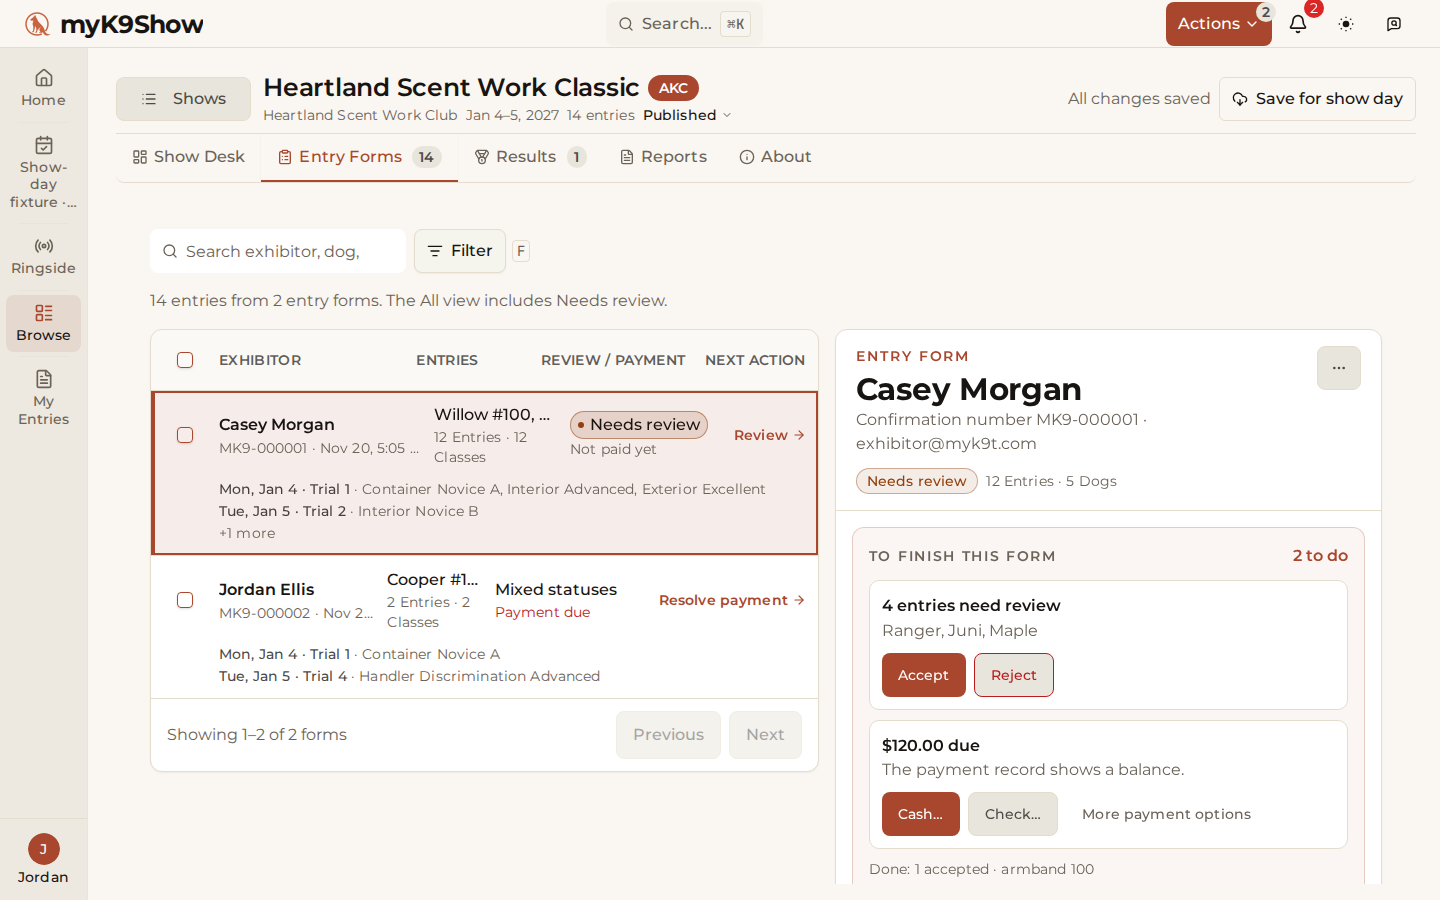
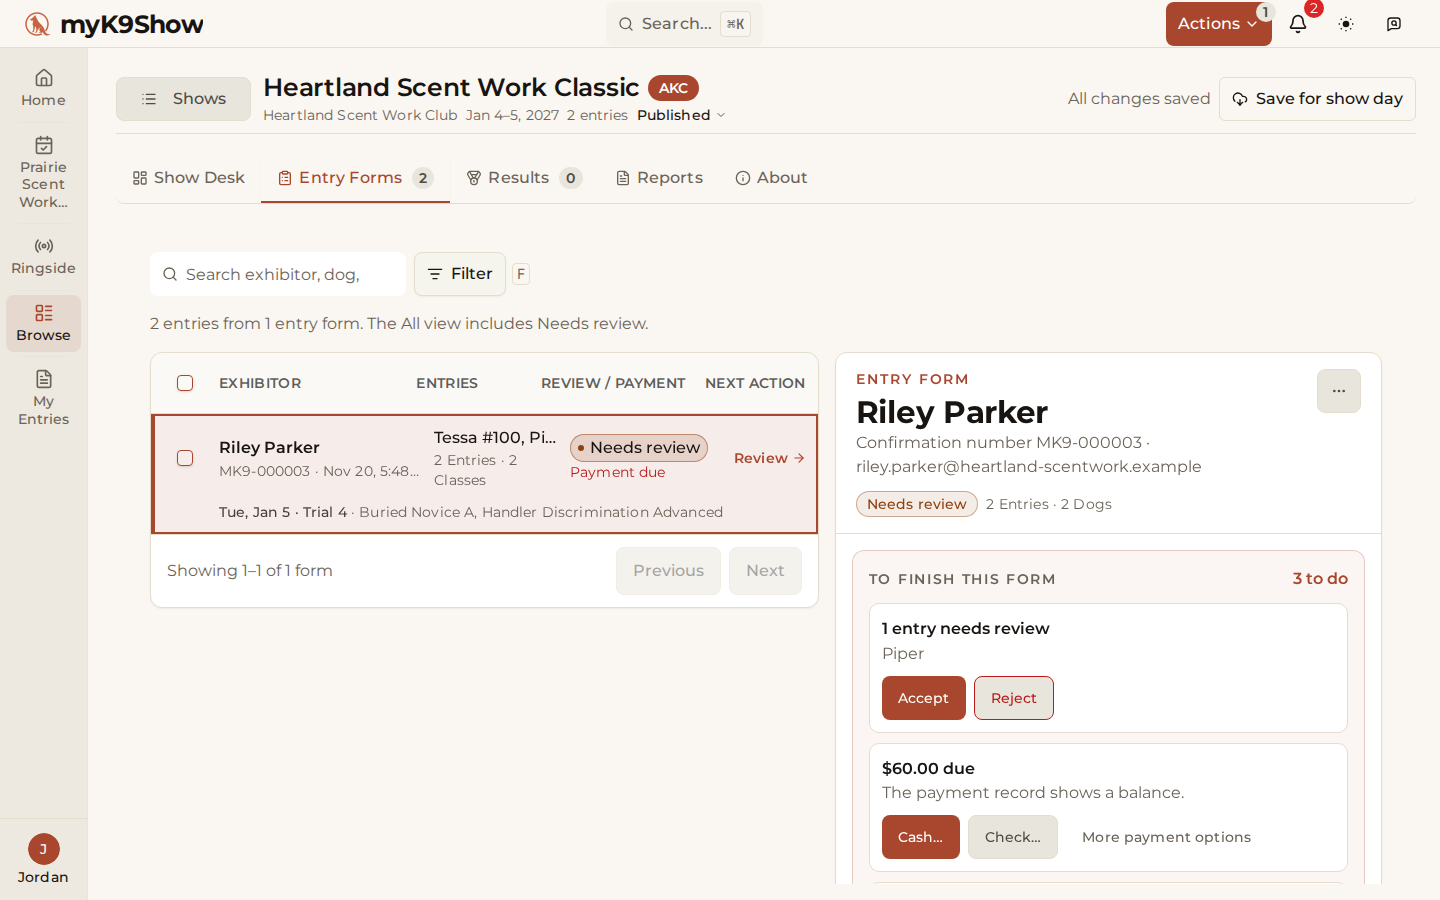
wip: MYK9-2296 round 1 captures, scene alts, tests

diff --git a/apps/myk9show/src/components/landing/lifecycle/scenes/entriesScene.ts b/apps/myk9show/src/components/landing/lifecycle/scenes/entriesScene.ts
@@ -31,13 +31,14 @@ type PhoneShot = keyof typeof PHONE_SHOTS;
 type DeskShot = keyof typeof DESK_SHOTS;
 
 const PHONE_ALT: Record<PhoneShot, string> = {
-  dogs: 'The entry wizard on the exhibitor’s phone, Select Dogs to Enter, with Maple chosen',
+  dogs: 'The entry wizard on the exhibitor’s phone, Select Dogs to Enter, with Piper chosen',
   classes:
     'The wizard’s Select Classes step, with Handler Discrimination Advanced marked Full and a reason that the class is full',
   payment:
     'The wizard’s Payment step with the credit or debit card chosen and a button that reads Pay with the amount on it',
-  pending: 'My Entries on the phone: Maple’s card with a Pending review label',
-  accepted: 'My Entries on the phone: Maple’s card, now labelled Accepted',
+  pending:
+    'My Entries on the phone: Piper’s card with a Pending review label and the note that the secretary is reviewing it',
+  accepted: 'My Entries on the phone: Piper’s card, now labelled Accepted',
 };
 const DESK_ALT: Record<DeskShot, string> = {
   before:
@@ -45,8 +46,7 @@ const DESK_ALT: Record<DeskShot, string> = {
   list: 'The Entry Forms list with the exhibitor’s form marked Needs review, with Not paid yet beside it',
   review:
     'The open entry form, under To finish this form: the entries that need review, with Accept and Reject buttons',
-  accepted:
-    'The open entry form after Accept: Maple’s entry in Container Advanced now reads Accepted',
+  accepted: 'The open entry form after Accept: Piper’s entry in Buried Novice A now reads Accepted',
 };
 
 const phoneShot = (name: PhoneShot): SceneShot => ({

diff --git a/apps/myk9show/src/components/landing/lifecycle/__tests__/entriesScene.test.tsx b/apps/myk9show/src/components/landing/lifecycle/__tests__/entriesScene.test.tsx
@@ -152,6 +152,19 @@ describe('the Entries open scene', () => {
     expect(lineThree.phone!.camera).toEqual(lineTwo.phone!.camera);
   });
 
+  it('keeps the Communication section, which says no decision email has gone yet, out of frame on the Accepted capture', () => {
+    // Line 5 says the exhibitor gets an email; that section reads "No decision email sent yet".
+    const view = frames.find(f => f.desk!.shot === 'accepted')!.desk!;
+    const { entry, communication } = regions.desk.shots.accepted.regions;
+    expect(inside(entry, view.camera)).toBe(true);
+    const overlaps =
+      communication.y < view.camera.y + view.camera.h &&
+      communication.y + communication.h > view.camera.y &&
+      communication.x < view.camera.x + view.camera.w &&
+      communication.x + communication.w > view.camera.x;
+    expect(overlaps).toBe(false);
+  });
+
   it('uses every capture, and each file is on disk at the size the data states', () => {
     const used = new Set(frames.flatMap(f => [`desk:${f.desk!.shot}`, `phone:${f.phone!.shot}`]));
     expect(used).toEqual(

diff --git a/docs/plan-landing-animated-timeline.md b/docs/plan-landing-animated-timeline.md
@@ -99,7 +99,7 @@ Changed from the 2026-11-12 wording:
 - The wizard is no longer "four steps" for every payer. Card goes straight to Stripe from the Payment step ("Pay $X.XX", MYK9-1964), so only check and cash reach the Receipt step. The exhibitor's wizard still has no Handlers step (the secretary's does); a handler question appears inline only when one owner enters two dogs in one class (MYK9-2021).
 - "Full: join waitlist" cannot be quoted: `BANNED_COPY` forbids the word. Line 1 says a full class "says so" and names the "waiting list" (2026-11-19, MYK9-2296; a full class with no waiting list reads "Full" and cannot be entered, one that allows a waiting list reads "Full: join waitlist" and can).
 - **Line 2 reworded 2026-11-19 (MYK9-2296).** Card is now the first method and check and cash are off unless the club turns them on (MYK9-2164), so the line leads with card. The card checkout is Stripe's own page and the capture job has no outbound network, so line 2's frame is the wizard's Payment step with "Pay $X.XX" and the card chosen, never pressed.
-- **The scene as captured (MYK9-2296).** The exhibitor is the demo account (Maple), entering a class that is not Exterior Excellent (the ring capture's class), and the capture pays by check so the entry really is submitted, in the job's own database. The demo exhibitor already has a form at the show, so the new entry joins it: the secretary's row is that form, now Needs review, and the open form lists the payment and the one entry to review beside Accept. The dog's own earlier entry is accepted off camera so its card reads Accepted afterwards (a dog with any accepted entry reads Accepted, whatever else is pending).
+- **The scene as captured (MYK9-2296).** The capture sets up the job's own database before the walk (`capture/landingEntriesSetup.sql`, run by the spec through psql after it has checked the target is on this machine): the demo seed's entries, forms and armbands at the show are removed (refunds, withdrawals and a paid multi-dog order are test fixtures, not what a club sees), the club's contact becomes a reserved-domain address, the show-day fixture is renamed, and the second demo exhibitor (Riley Parker, `exhibitor2@`, who has no entries) gets two dogs. Tessa is already entered in the class that holds one dog (so it reads Full for Piper); that is the form Piper's entry joins. The walk enters Piper in Buried Novice A and pays by check, so the entry is really submitted. The secretary's row is that form, going from Accepted to Needs review, and the open form lists the review, the payment and "Piper has no armband" (an online entry assigns none); one Accept accepts only Piper, and the desk frame keeps the form's "No decision email sent yet" line out of the camera.
 - "The panel reads 'All set.'" is true only when nothing else is open. A form with an unpaid fee or a dog with no armband still lists those items. Stage a form with both done.
 - **"Accepting sends no email" is no longer true.** On a published show that has not finished, Accept emails the exhibitor by itself after a few quiet minutes; on other shows the secretary sees a preview first. Line 5 now says so in words (owner, 2026-11-16): no email capture and no sixth step. Stage the scene on a published show that has not finished.
 
